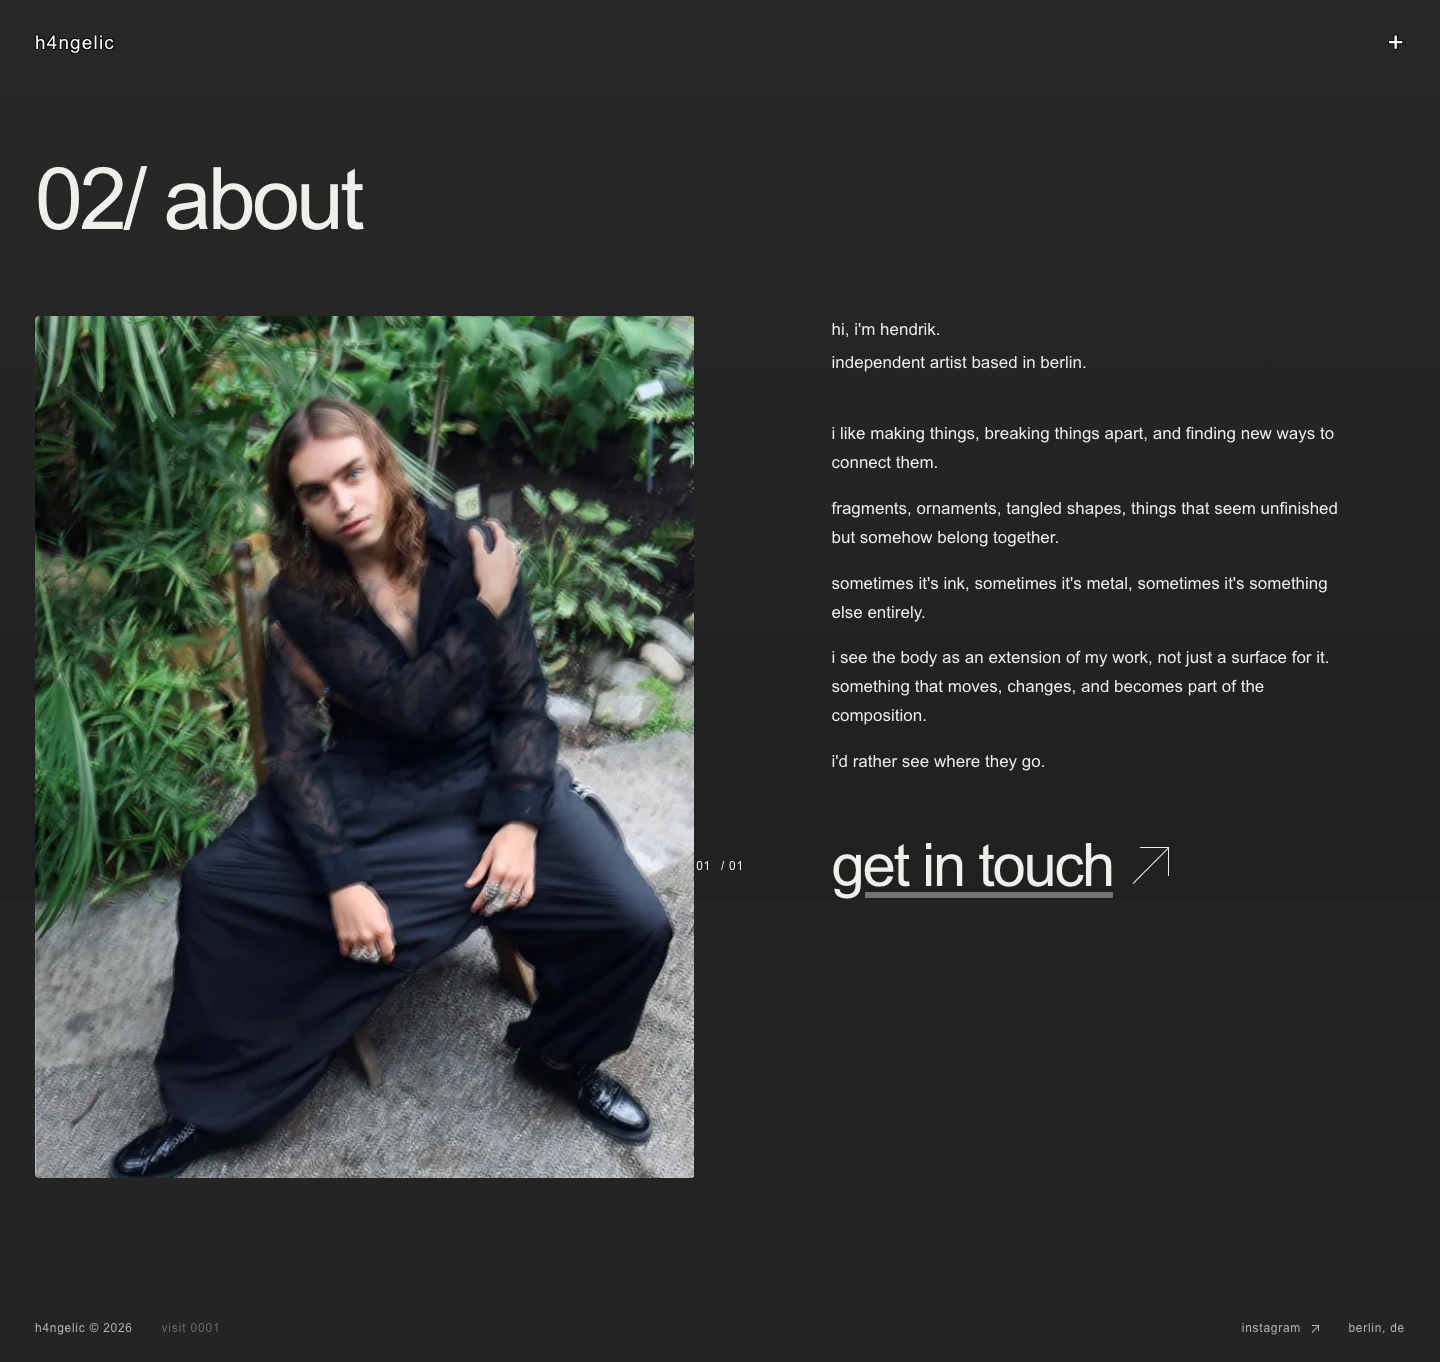
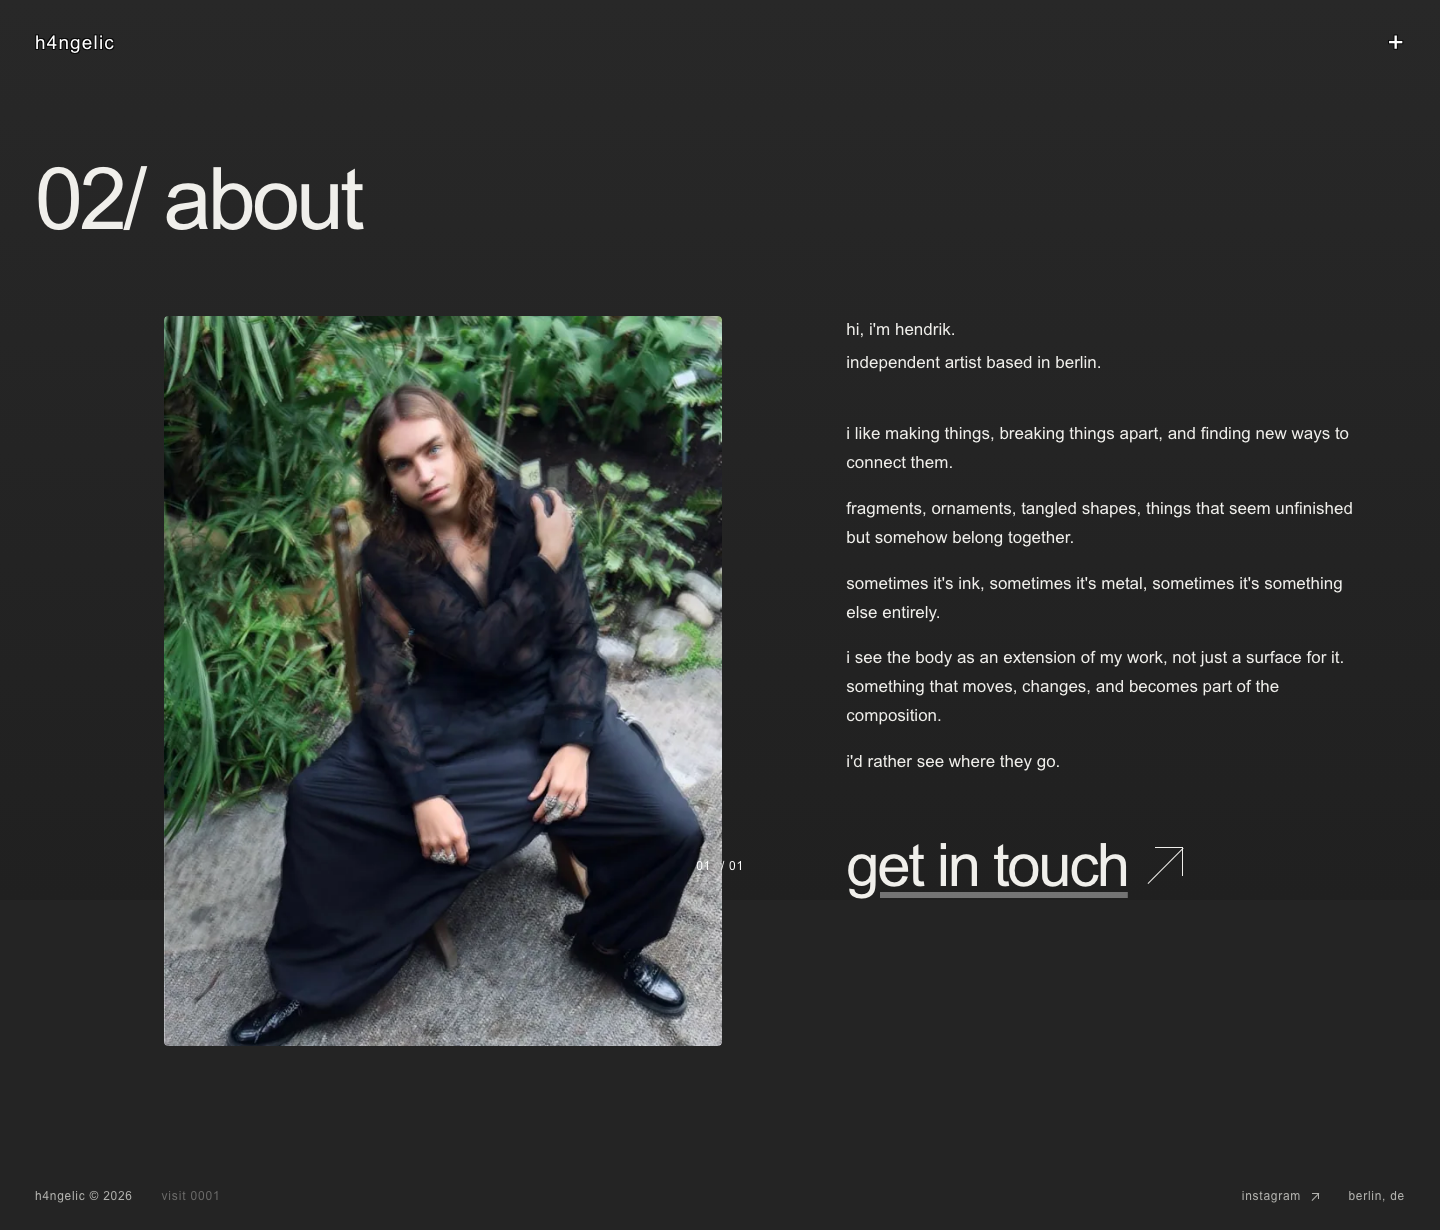
about: start the portrait on the heading word edge

diff --git a/src/app.js b/src/app.js
@@ -113,11 +113,33 @@ function measureSlashInset() {
   setSlashInset(range.getBoundingClientRect().left - translation - contentLeft);
 }
 
+/** The About portrait starts where the word of the numbered heading starts,
+ *  not on the page gutter and not on the slash column. Measure the first glyph
+ *  after "NN/ " so the column edge follows the real type instead of a number.
+ *  Pages without that heading fall back to the derived token. */
+function measureLabelInset() {
+  const heading = document.querySelector('.page-shell > .page-heading.numbered-heading');
+  const node = heading?.firstChild;
+  const root = document.documentElement;
+  const match = node && node.nodeType === 3 ? node.textContent.match(/^\d{2}\/\s+(\S)/) : null;
+  if (!match) { root.style.removeProperty('--label-inset'); return; }
+  const range = document.createRange();
+  range.setStart(node, match[0].length - 1);
+  range.setEnd(node, match[0].length);
+  const offset = range.getBoundingClientRect().left - heading.getBoundingClientRect().left;
+  if (Number.isFinite(offset) && offset > 0) {
+    root.style.setProperty('--label-inset', `${Math.round(offset * 100) / 100}px`);
+  } else {
+    root.style.removeProperty('--label-inset');
+  }
+}
+
 function scheduleSlashInset() {
   if (slashInsetFrame) return;
   slashInsetFrame = requestAnimationFrame(() => {
     slashInsetFrame = 0;
     measureSlashInset();
+    measureLabelInset();
     fitRubricRows();
   });
 }

diff --git a/src/style.css b/src/style.css
@@ -127,7 +127,7 @@ html:not([data-page='home']) .hero-nav { display: none; }
 .project-details dt { color: #b9b9b4; }
 .project-details dd { margin: 0; }
 .about-layout { max-width: 1020px; margin-left: auto; }
-.about-layout.has-portrait { max-width: none; display: grid; grid-template-columns: minmax(0, 1.15fr) minmax(min(320px, 100%), 1fr); gap: 10%; }
+.about-layout.has-portrait { max-width: none; display: grid; grid-template-columns: minmax(0, 1fr) minmax(min(320px, 100%), 1fr); gap: 10%; padding-left: var(--label-inset); }
 /* The greeting, the location line and the paragraphs are one text size. The
    portrait leads the grid; the copy keeps the wider column beside it. */
 .about-intro, .about-location, .about-paragraph { font-size: 17px; line-height: 1.7; letter-spacing: normal; }
@@ -177,7 +177,7 @@ html:not([data-page='home']) .hero-nav { display: none; }
   .work-filters { gap: 0 24px; }
   .filter-link { font-size: 14px; }
   .project-grid { grid-template-columns: 1fr; gap: 65px; padding-top: 40px; }
-  .about-layout.has-portrait { grid-template-columns: 1fr; gap: 45px; }
+  .about-layout.has-portrait { grid-template-columns: 1fr; gap: 45px; padding-left: 0; }
 }
 @media (prefers-reduced-motion: reduce) {
   *, *::before, *::after { transition: none !important; }

diff --git a/src/ui-tokens.css b/src/ui-tokens.css
@@ -52,6 +52,10 @@
   --type-navigation: clamp(13px, 1.32vw, 20px);
   --type-secondary-link: clamp(18px, 1.8vw, 27px);
   --slash-inset: clamp(52px, 16vw, 138px);
+  /* Where the word after "NN/ " starts in a numbered heading. The About
+     portrait aligns on that edge; app.js replaces this derived value with
+     the measured one. */
+  --label-inset: calc(var(--slash-inset) + var(--type-display) * .4655);
   --sound-caret-duration: 300ms;
   --sound-caret-easing: cubic-bezier(.2, 1.35, .3, 1);
   /* Mirrors the HOLD-4 hint's ghost color, opacity and .84px tracking. The

diff --git a/docs/validation/ABOUT-UNIFY/README.md b/docs/validation/ABOUT-UNIFY/README.md
@@ -69,25 +69,20 @@ sind entfallen, weil die Werte jetzt in beiden Breiten gleich sind.
   auf 434 884 Bytes.
 - Build erzeugt daraus die üblichen WebP-Varianten 320/640/960/1179
   (`src/data/imageManifest.json`, `public/images/optimized/portrait-b8cb1f4d172f-*`).
-  Ausgeliefert: 640er WebP bei 1440 (536 CSS px), 640 bei 390 (346 px), 320 bei 320 (276 px).
-- Platzierung: Portrait **vor** dem Textblock. Desktop zweispaltig
-  (Bild links, Text rechts: `minmax(0, 1.15fr) minmax(min(320px, 100%), 1fr)`,
-  10 % Gap — das Bild ist damit die größere Spalte), Mobile gestapelt
-  (`grid-template-columns: 1fr`, 45 px Gap).
-- Das Bild beginnt **auf der Kopfzeilen-Achse**: `portrait.left` − `heading.left`
-  = 0,00 px bei 1920/1440/1280/1024/768/390/320. Größe: 890 × 1164 px (1920),
-  660 × 862 (1440), 583 × 761 (1280), 459 × 600 (1024), 308 × 403 (768),
-  346 × 452 (390), 276 × 361 (320). Die Textspalte behält mindestens 320 px.
-- Alt-Text: `hendrik sitting on a chair among plants.` — beschreibt nur das Foto.
-- `loading="lazy"`, `decoding="async"`, `width`/`height` aus dem Manifest.
-- Ecken: `border-radius: var(--radius-soft)` (4 px) auf Figure **und** Bild,
-  plus `overflow: hidden` auf der Figure — dieselbe Rundung wie
-  `.artwork-open`/`.project-image` (`src/gallery.css`, eine gemeinsame
-  Radius-Zeile). Die alte Ausnahme `.about-portrait img { border-radius: 0 }`
-  ist entfallen. Gemessen: Figure und Bild 4 px bei 1440/390/320
-  (`portrait-corner-*.png`).
-- Alternative Platzierung (nur genannt, nicht gebaut): Portrait rechts neben dem
-  Text — verworfen, weil der Auftrag „oben, vor dem Textblock" verlangt.
+  Ausgeliefert: 640er WebP bei 1440 (559 CSS px), 640 bei 390 (346 px), 320 bei 320 (276 px).
+- Platzierung: Portrait **vor** dem Textblock. Desktop zweispaltig, beide
+  Spalten gleich breit (`minmax(0, 1fr) minmax(min(320px, 100%), 1fr)`, 10 % Gap),
+  Mobile gestapelt (`grid-template-columns: 1fr`, 45 px Gap, ohne Einzug).
+- Das Bild beginnt **dort, wo das Wort „about" beginnt** — nicht am Seitenrand
+  und nicht auf der Slash-Spalte. Dafür misst `src/app.js` (`measureLabelInset`)
+  den ersten Buchstaben nach `NN/ ` in der nummerierten Seiten-Überschrift und
+  schreibt ihn als `--label-inset`; das Layout nutzt ihn als `padding-left`.
+  Ohne JS greift der abgeleitete Token-Wert
+  `calc(var(--slash-inset) + var(--type-display) * .4655)` aus `src/ui-tokens.css`.
+  Gemessen: Bildkante − Wortkante = **0,00 px** bei 1920/1440/1280/1024/768.
+  Größe: 774 × 1011 px (1920), 559 × 730 (1440), 493 × 645 (1280),
+  388 × 507 (1024), 247 × 322 (768); gestapelt 346 × 452 (390) und 276 × 361 (320).
+  Die Textspalte behält mindestens 320 px.
 
 ## 5 — Overflow und Screenshots
 

diff --git a/CODEMAP.md b/CODEMAP.md
@@ -90,6 +90,7 @@ nur bei jewellery.
 | --- | --- |
 | Grundlayout, Hero-Bühne, Poster | `src/style.css` — Block ".stage.is-ready" |
 | CTA-Typ (send message · more about · get in touch) | `src/style.css` — Block ".cta" |
+| About-Spalten (Portrait beginnt auf der Wortkante, `--label-inset`) | `src/style.css` — Block "about-layout" |
 | Startseite, Rubrik-Reihe | `src/homepage.css` — Block ".hero" |
 | Rubrik-Reihen (Typ A/B/C, Abstände) | `src/rubric-row.css` — Block "row-" |
 | Archiv-Struktur, Kartenmaße mobil | `src/archive-structure.css` — Block "--carousel-card-width" |
